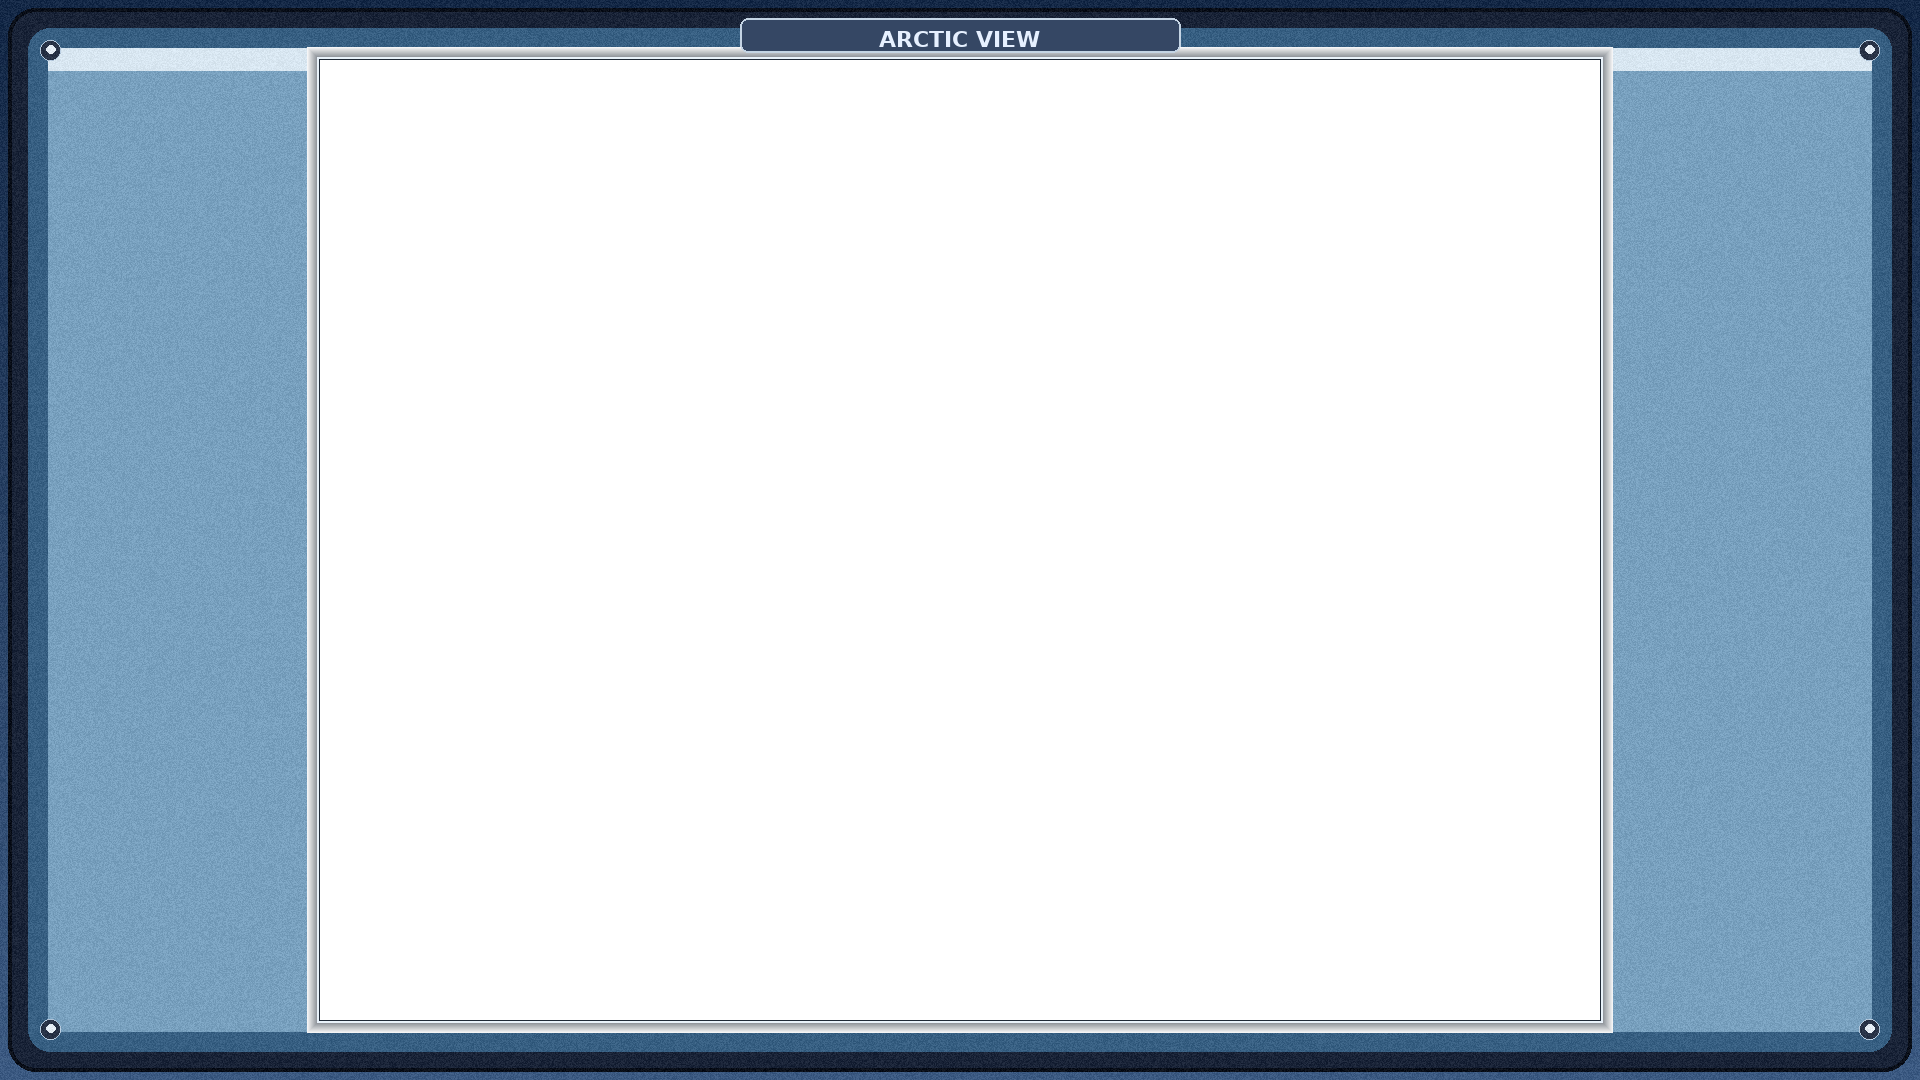
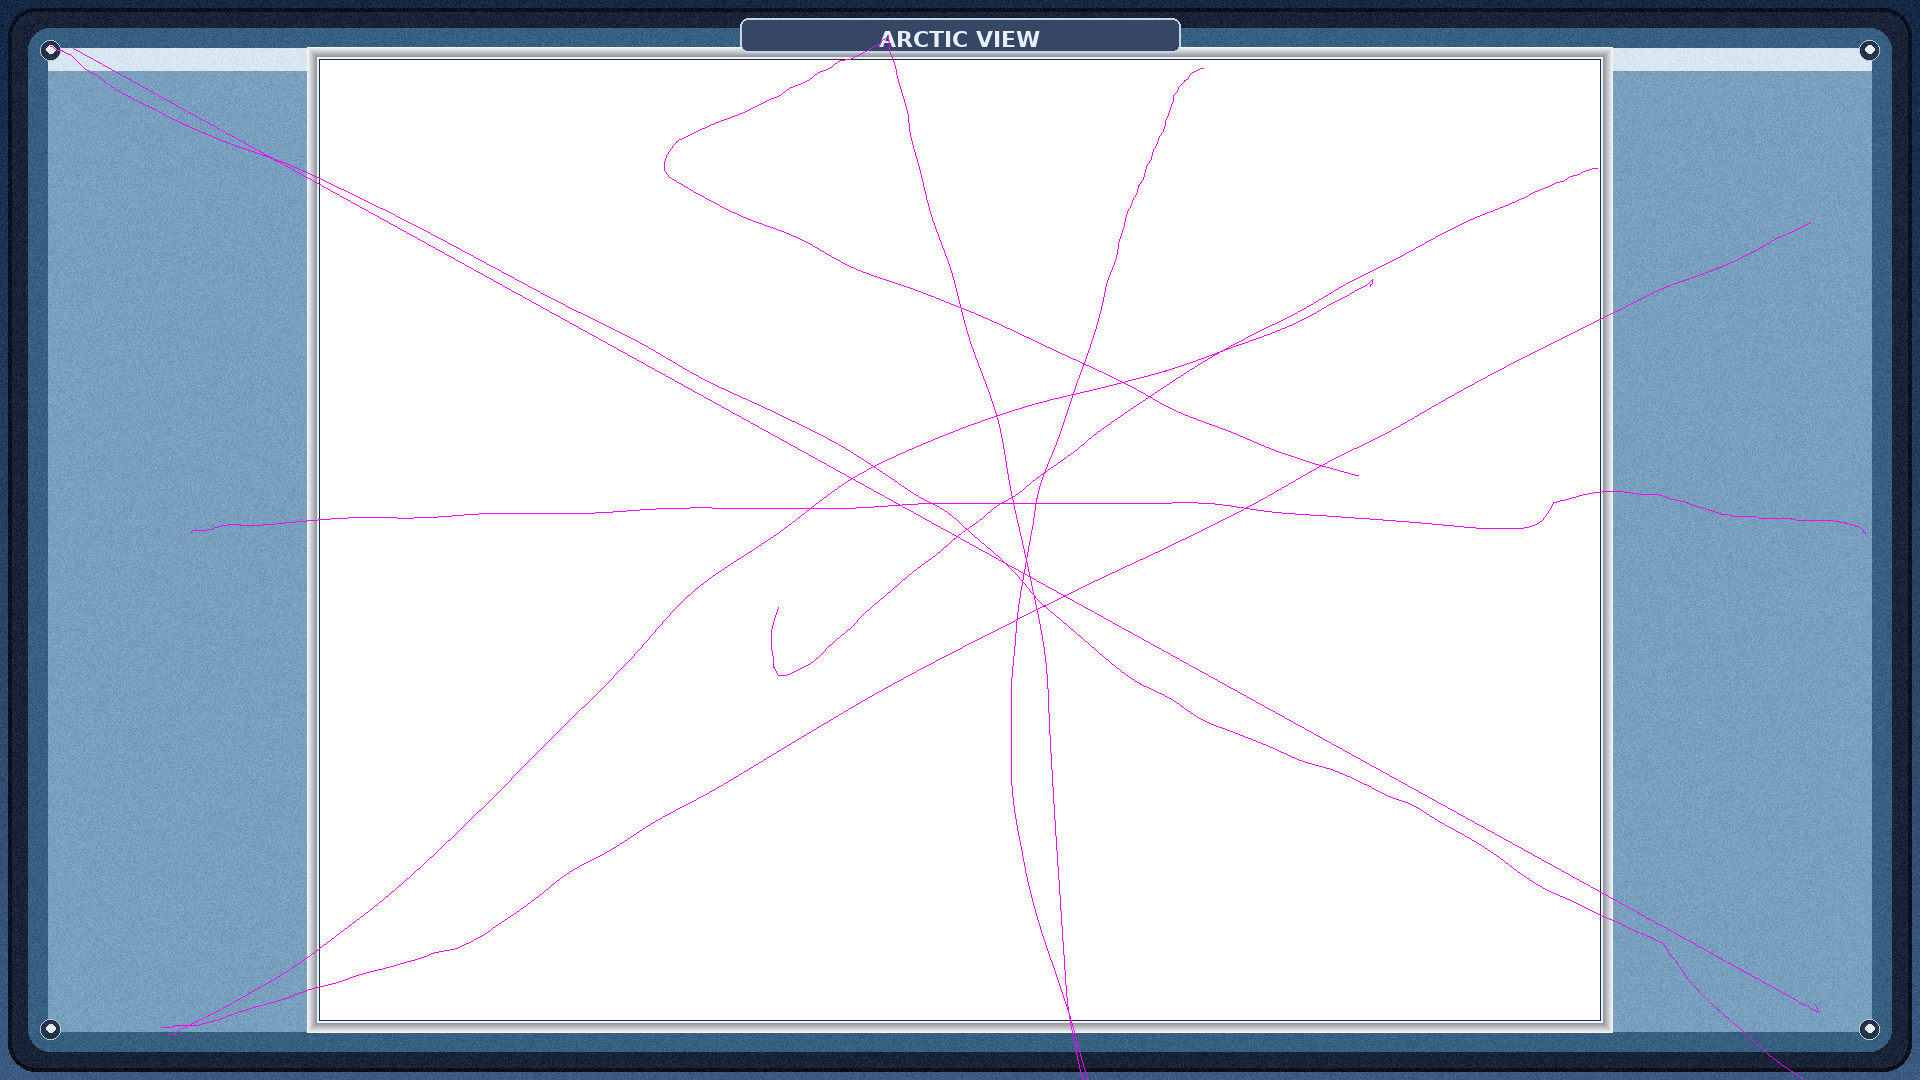
fix(touch): don't arctic-fill over the letterboxed playfield
Full-window fill (25,45,70) covered the game; the bezel hole showed
solid blue. Paint only margin bands and uniform-scale the TV bezel
so its 4:3 hole stays centered on the letterbox.

diff --git a/src/touch_controls.cpp b/src/touch_controls.cpp
@@ -13,6 +13,8 @@
 
 #include <string.h>
 #include <string>
+#include <stdio.h>
+#include <unistd.h>
 
 enum {
   TC_LEFT = 0,
@@ -377,29 +379,58 @@ tc_draw_bezel(void)
     {
       tc_bezel_tried = true;
       std::string path = datadir + "/images/status/tv-bezel.png";
-      FILE* fp = fopen(path.c_str(), "rb");
-      if (fp)
+      /* Prefer access() over fopen so we don't leave a FILE* dance; on
+         Android the data tree is extracted to internal storage so this
+         matches how other assets are probed. */
+      if (access(path.c_str(), R_OK) == 0)
         {
-          fclose(fp);
           tc_bezel = new Surface(path, USE_ALPHA);
-          st_vlog("[video] loaded arctic TV bezel (%dx%d)\n",
+          fprintf(stderr, "[video] loaded arctic TV bezel %s (%dx%d)\n",
+                  path.c_str(),
                   tc_bezel ? tc_bezel->w : 0, tc_bezel ? tc_bezel->h : 0);
         }
       else
-        st_vlog("[video] no tv-bezel.png — plain letterbox margins\n");
+        {
+          fprintf(stderr,
+                  "[video] no tv-bezel.png at %s — plain letterbox margins\n",
+                  path.c_str());
+        }
     }
   if (!tc_bezel)
     return;
 
   int lx = 0, ly = 0, lw = ST_SCREEN_W, lh = ST_SCREEN_H;
   platform_get_letterbox(&lx, &ly, &lw, &lh);
-  /* Map image hole → letterbox; frame scales with it (may stretch slightly). */
-  float sx = (float)lw / (float)BEZEL_HW;
-  float sy = (float)lh / (float)BEZEL_HH;
-  int dw = (int)(BEZEL_IW * sx + 0.5f);
-  int dh = (int)(BEZEL_IH * sy + 0.5f);
-  int dx = lx - (int)(BEZEL_HX * sx + 0.5f);
-  int dy = ly - (int)(BEZEL_HY * sy + 0.5f);
+
+  /* Map the image's transparent 4:3 hole exactly onto the letterbox.
+     Letterbox is always 4:3 so sx≈sy; independent axes stay correct if
+     a pixel of rounding drifts. Use the real surface size if the asset
+     is not the design 1920×1080. */
+  int iw = tc_bezel->w > 0 ? tc_bezel->w : BEZEL_IW;
+  int ih = tc_bezel->h > 0 ? tc_bezel->h : BEZEL_IH;
+  float hx = (float)BEZEL_HX * (float)iw / (float)BEZEL_IW;
+  float hy = (float)BEZEL_HY * (float)ih / (float)BEZEL_IH;
+  float hw = (float)BEZEL_HW * (float)iw / (float)BEZEL_IW;
+  float hh = (float)BEZEL_HH * (float)ih / (float)BEZEL_IH;
+  if (hw < 1.0f) hw = 1.0f;
+  if (hh < 1.0f) hh = 1.0f;
+
+  float sx = (float)lw / hw;
+  float sy = (float)lh / hh;
+  int dw = (int)((float)iw * sx + 0.5f);
+  int dh = (int)((float)ih * sy + 0.5f);
+  int dx = lx - (int)(hx * sx + 0.5f);
+  int dy = ly - (int)(hy * sy + 0.5f);
+
+  static bool logged_rect = false;
+  if (!logged_rect)
+    {
+      logged_rect = true;
+      fprintf(stderr,
+              "[video] TV bezel draw: dst=(%d,%d %dx%d) hole→letterbox=(%d,%d %dx%d)\n",
+              dx, dy, dw, dh, lx, ly, lw, lh);
+    }
+
   platform_overlay_surface(tc_bezel, dx, dy, dw, dh);
 }
 
@@ -413,9 +444,26 @@ void touch_controls_draw(void)
   int ww = ST_SCREEN_W, wh = ST_SCREEN_H;
   platform_get_window_size(&ww, &wh);
 
+  int lx = 0, ly = 0, lw = ST_SCREEN_W, lh = ST_SCREEN_H;
+  platform_get_letterbox(&lx, &ly, &lw, &lh);
+
   platform_overlay_begin();
-  /* Arctic fill under the bezel so gaps outside the frame aren't pure black. */
-  platform_overlay_fillrect(0, 0, ww, wh, 25, 45, 70, 255);
+  /*
+   * Fill only the margin bands (never the letterboxed playfield).
+   * Use a near-black underlay so an arctic-coloured bezel frame is
+   * visible against it; a matching (25,45,70) fill made the frame
+   * disappear into the chrome.
+   */
+  const int ar = 8, ag = 12, ab = 20;
+  if (ly > 0)
+    platform_overlay_fillrect(0, 0, ww, ly, ar, ag, ab, 255);
+  if (ly + lh < wh)
+    platform_overlay_fillrect(0, ly + lh, ww, wh - (ly + lh), ar, ag, ab, 255);
+  if (lx > 0)
+    platform_overlay_fillrect(0, ly, lx, lh, ar, ag, ab, 255);
+  if (lx + lw < ww)
+    platform_overlay_fillrect(lx + lw, ly, ww - (lx + lw), lh, ar, ag, ab, 255);
+
   tc_draw_bezel();
 
   for (int i = 0; i < TC_COUNT; ++i)

diff --git a/src/platform_sdl2.cpp b/src/platform_sdl2.cpp
@@ -351,8 +351,32 @@ void platform_overlay_surface(Surface* surf, int x, int y, int w, int h)
 {
   if (!st_overlay_active || !surf || w < 1 || h < 1)
     return;
-  /* draw_stretched uses the current GL viewport/MVP (overlay ortho). */
-  surf->draw_stretched((float)x, (float)y, w, h, 255, NO_UPDATE);
+#ifndef NOOPENGL
+  if (use_gl)
+    {
+      /* GL path: draw_stretched uses the overlay ortho set in begin(). */
+      surf->draw_stretched((float)x, (float)y, w, h, 255, NO_UPDATE);
+      return;
+    }
+#endif
+  /*
+   * Software: SurfaceSDL::draw_stretched blits to the logical `screen`
+   * backbuffer (640×480). Overlay coords are window pixels, so that would
+   * either clip away or stamp garbage into the playfield. Blit onto the
+   * window surface instead (same target as overlay_fillrect).
+   */
+  if (!st_window || !surf->impl)
+    return;
+  SDL_Surface* src = surf->impl->get_sdl_surface();
+  SDL_Surface* ws = SDL_GetWindowSurface(st_window);
+  if (!src || !ws)
+    return;
+  SDL_Rect dst;
+  dst.x = x;
+  dst.y = y;
+  dst.w = w;
+  dst.h = h;
+  SDL_BlitScaled(src, NULL, ws, &dst);
 }
 
 void platform_overlay_end(void)
